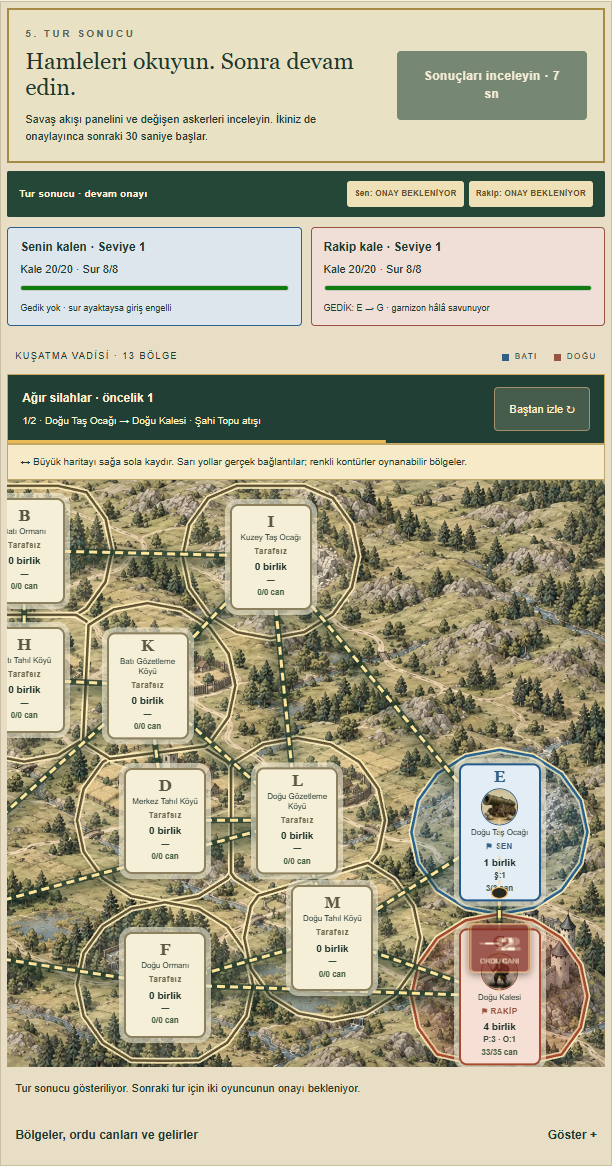
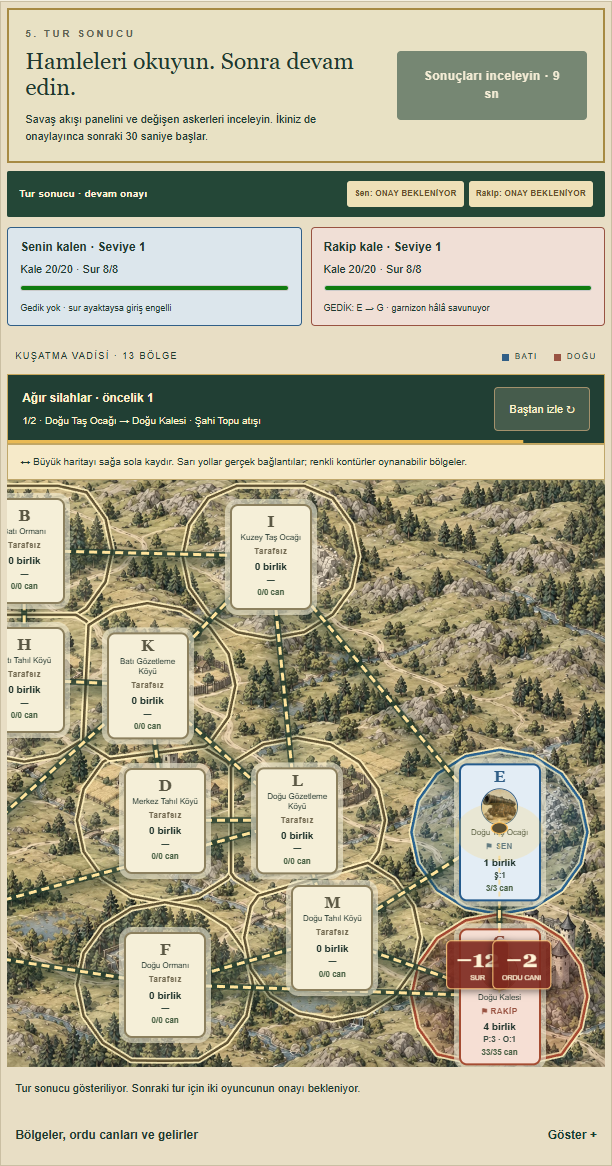
Record production siege and animation checks with server-clock test pacing

Changed region(s): [[0.7141, 0.6792, 0.9003, 0.8645]]

diff --git a/tests/e2e/strategy.spec.ts b/tests/e2e/strategy.spec.ts
@@ -34,7 +34,7 @@ test('oda seçimi, 13 bölge, dört emir, ekonomi, Şahi/gedik/onarım ve mobil 
   await p.locator('.combat-replay-bar button').click();await expect(p.locator('.projectile-cannon')).toHaveCount(1);expect((await request(q,`/api/rooms/${code}`)).data.game.replay).toEqual(artillery.replay);checks.cannonAnimationMatchesBothPlayers=true;
   await p.locator('.fortress-strip').scrollIntoViewIfNeeded();mkdirSync('tmp/evidence',{recursive:true});await p.locator('.map-section').screenshot({path:'tmp/evidence/strategy-desktop.png'});
   await advanceIfNeeded(p,q,code);await expect(p.getByRole('button',{name:'Şahi ateşi',exact:false})).toBeDisabled();checks.cannonCooldownVisible=true;
-  expect((await request(p,`/api/rooms/${code}`,{action:'orders',turn:6,orders:[{type:'cannon',from:'E',to:'G'}],ready:false,operationId:crypto.randomUUID()})).status).toBe(400);
+  await new Promise(r=>setTimeout(r,1150));expect((await request(p,`/api/rooms/${code}`,{action:'orders',turn:6,orders:[{type:'cannon',from:'E',to:'G'}],ready:false,operationId:crypto.randomUUID()})).status).toBe(400);
   const repaired=await submit(code,[],[{type:'repair',at:'G'}]);expect(repaired.players[1].breaches).toEqual([]);expect(armyHealth(repaired.regions.G)).toBe(35);checks.repairClosesBreach=true;
   await p.setViewportSize({width:375,height:812});expect(await p.evaluate(()=>document.documentElement.scrollWidth)).toBeLessThanOrEqual(375);const viewport=p.locator('.large-map-viewport');expect(await viewport.evaluate(e=>e.scrollWidth>e.clientWidth)).toBe(true);await viewport.evaluate(e=>{e.scrollLeft=450;});expect(await viewport.evaluate(e=>e.scrollLeft)).toBeGreaterThan(0);await p.locator('.battle-layout').screenshot({path:'tmp/evidence/strategy-mobile.png'});checks.mobile375AndMapPan=true;
   expect(await sql`select id from scores where room_id=${initial.id}`).toHaveLength(0);checks.scoresCreated=0;

diff --git a/tests/e2e/helpers.ts b/tests/e2e/helpers.ts
@@ -1,3 +1,3 @@
 import {expect,type Page} from '@playwright/test';
 export async function request(page:Page,url:string,body?:unknown){const token=await page.evaluate(()=>{const key=Object.keys(localStorage).find(k=>k.endsWith('-auth-token'));return key?JSON.parse(localStorage.getItem(key)!).access_token:null;});const response=await page.request.fetch(url,{method:body?'POST':'GET',headers:{Authorization:`Bearer ${token}`},...(body?{data:body}:{})});return{status:response.status(),data:await response.json()};}
-export async function advanceIfNeeded(p:Page,q:Page,code:string){const view=(await request(p,`/api/rooms/${code}`)).data;if(view.game?.phase!=='waiting'&&view.game?.phase!=='review')return;const delay=Math.max(1150,view.game.reviewUntil?new Date(view.game.reviewUntil).getTime()-Date.now()+300:0);await new Promise(r=>setTimeout(r,delay));const results=await Promise.all([request(p,`/api/rooms/${code}`,{action:'continue',turn:view.game.turn,operationId:crypto.randomUUID()}),request(q,`/api/rooms/${code}`,{action:'continue',turn:view.game.turn,operationId:crypto.randomUUID()})]);for(const result of results)expect(result.status).toBe(200);}
+export async function advanceIfNeeded(p:Page,q:Page,code:string){const view=(await request(p,`/api/rooms/${code}`)).data;if(view.game?.phase!=='waiting'&&view.game?.phase!=='review')return;const delay=Math.max(1150,view.game.reviewUntil?new Date(view.game.reviewUntil).getTime()-new Date(view.serverTime).getTime()+600:0);await new Promise(r=>setTimeout(r,delay));const results=await Promise.all([request(p,`/api/rooms/${code}`,{action:'continue',turn:view.game.turn,operationId:crypto.randomUUID()}),request(q,`/api/rooms/${code}`,{action:'continue',turn:view.game.turn,operationId:crypto.randomUUID()})]);for(const result of results)expect(result.status,JSON.stringify(result.data)).toBe(200);}
